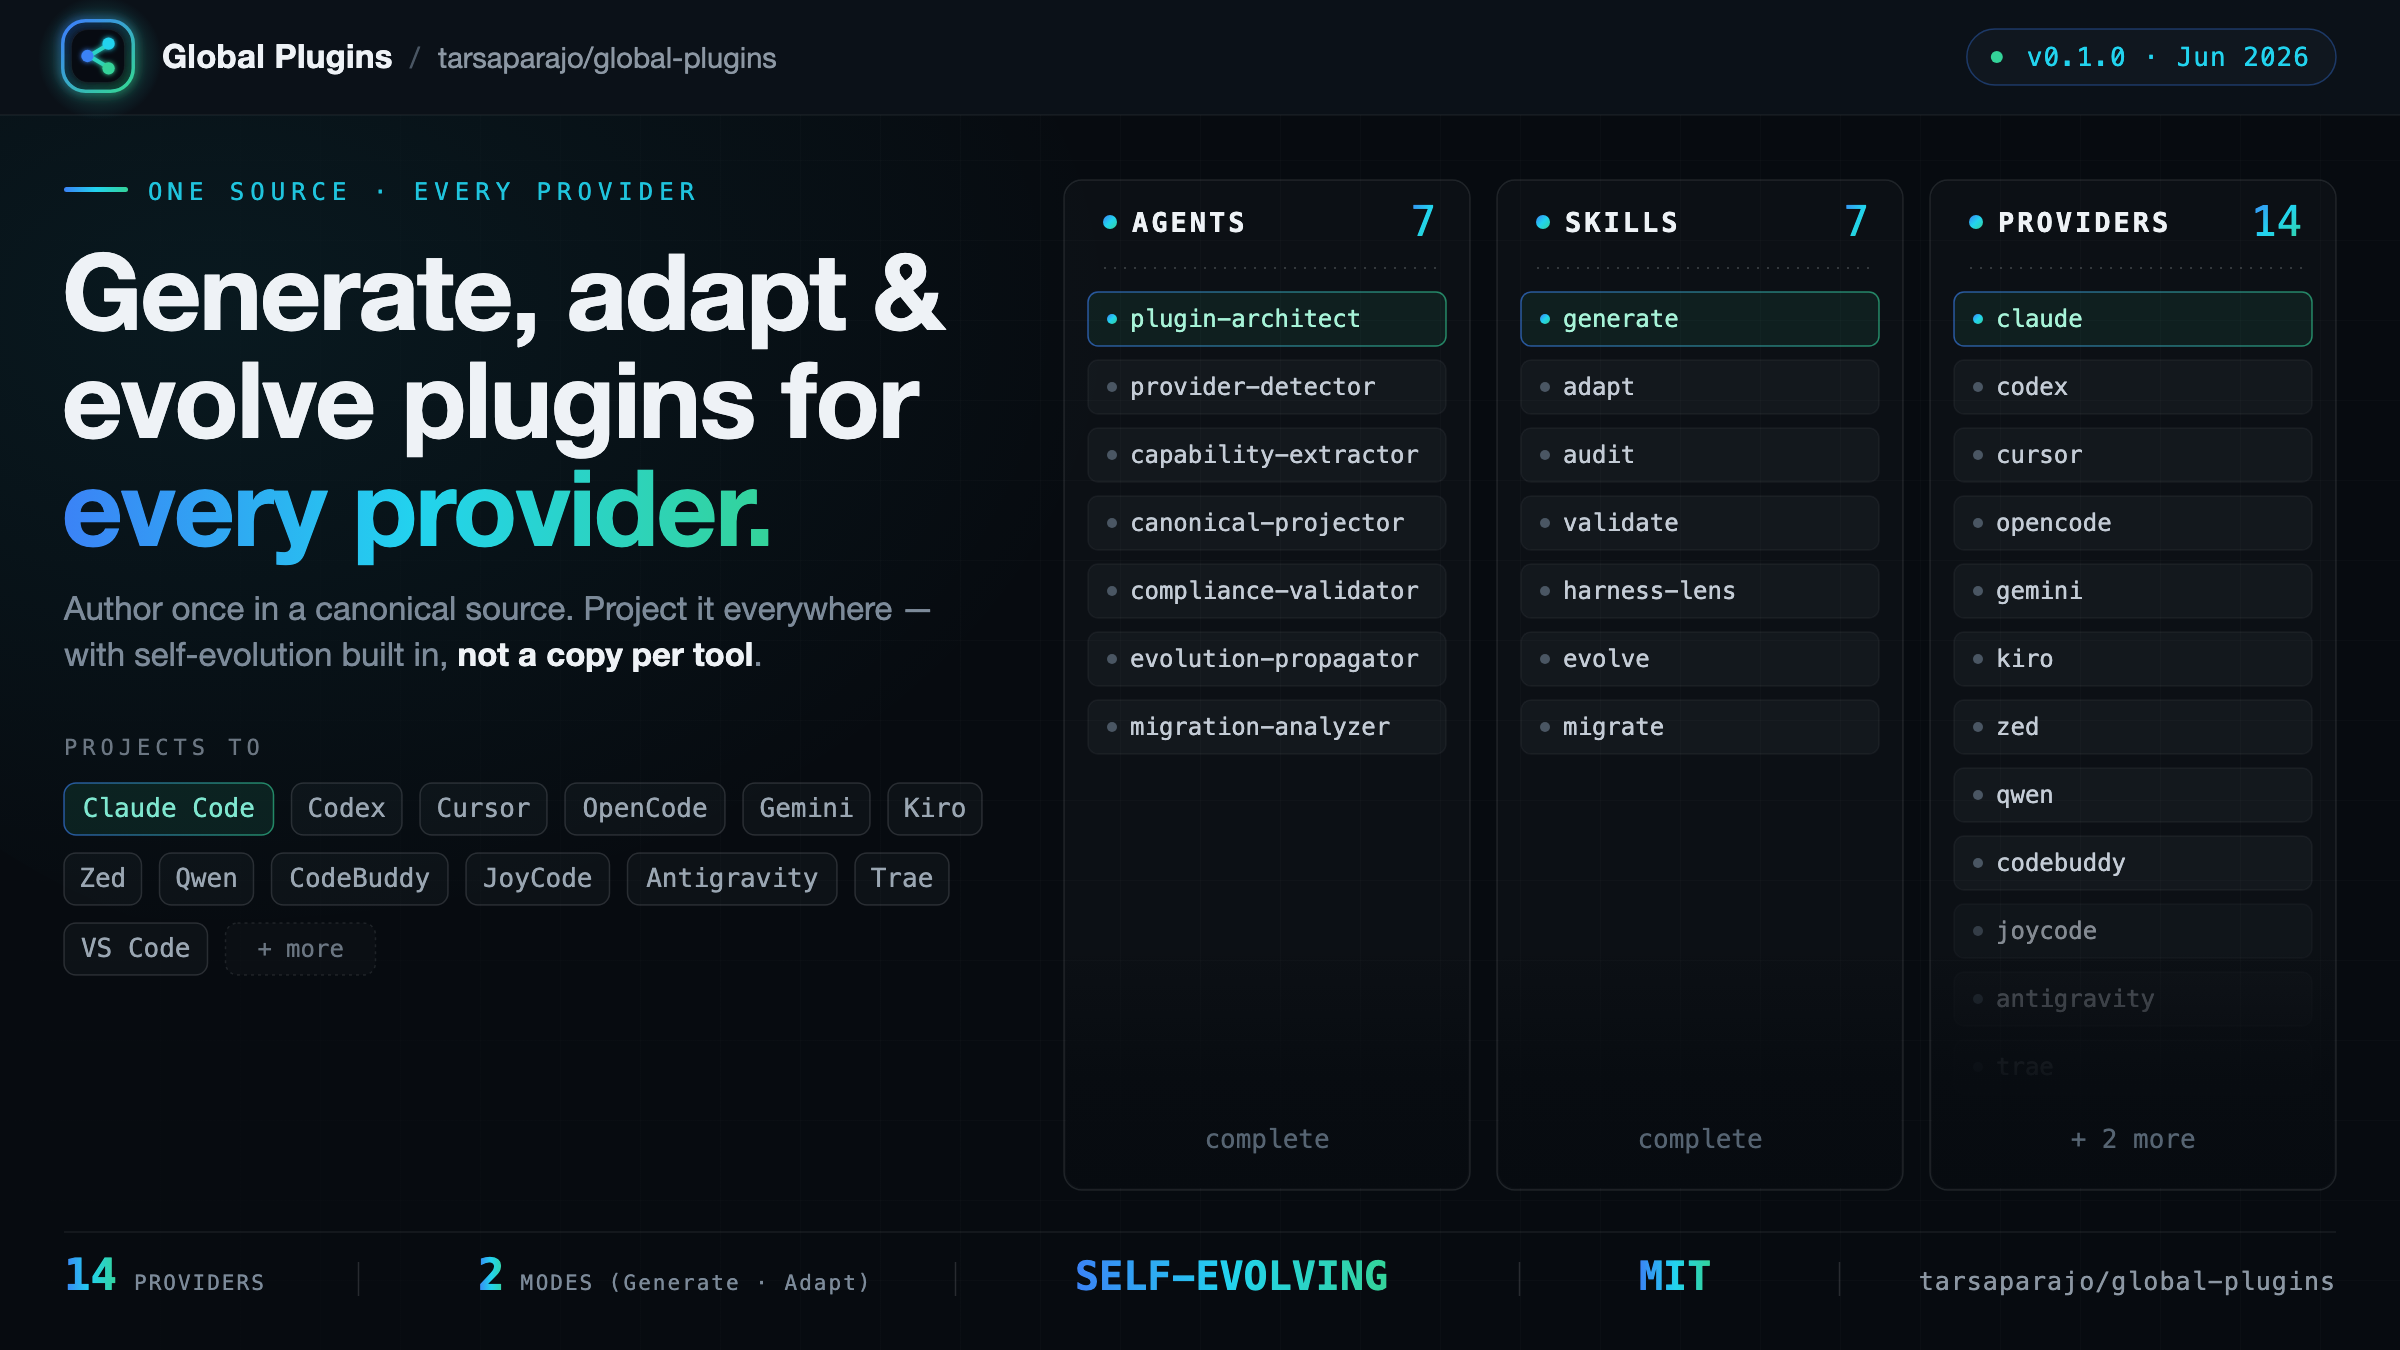
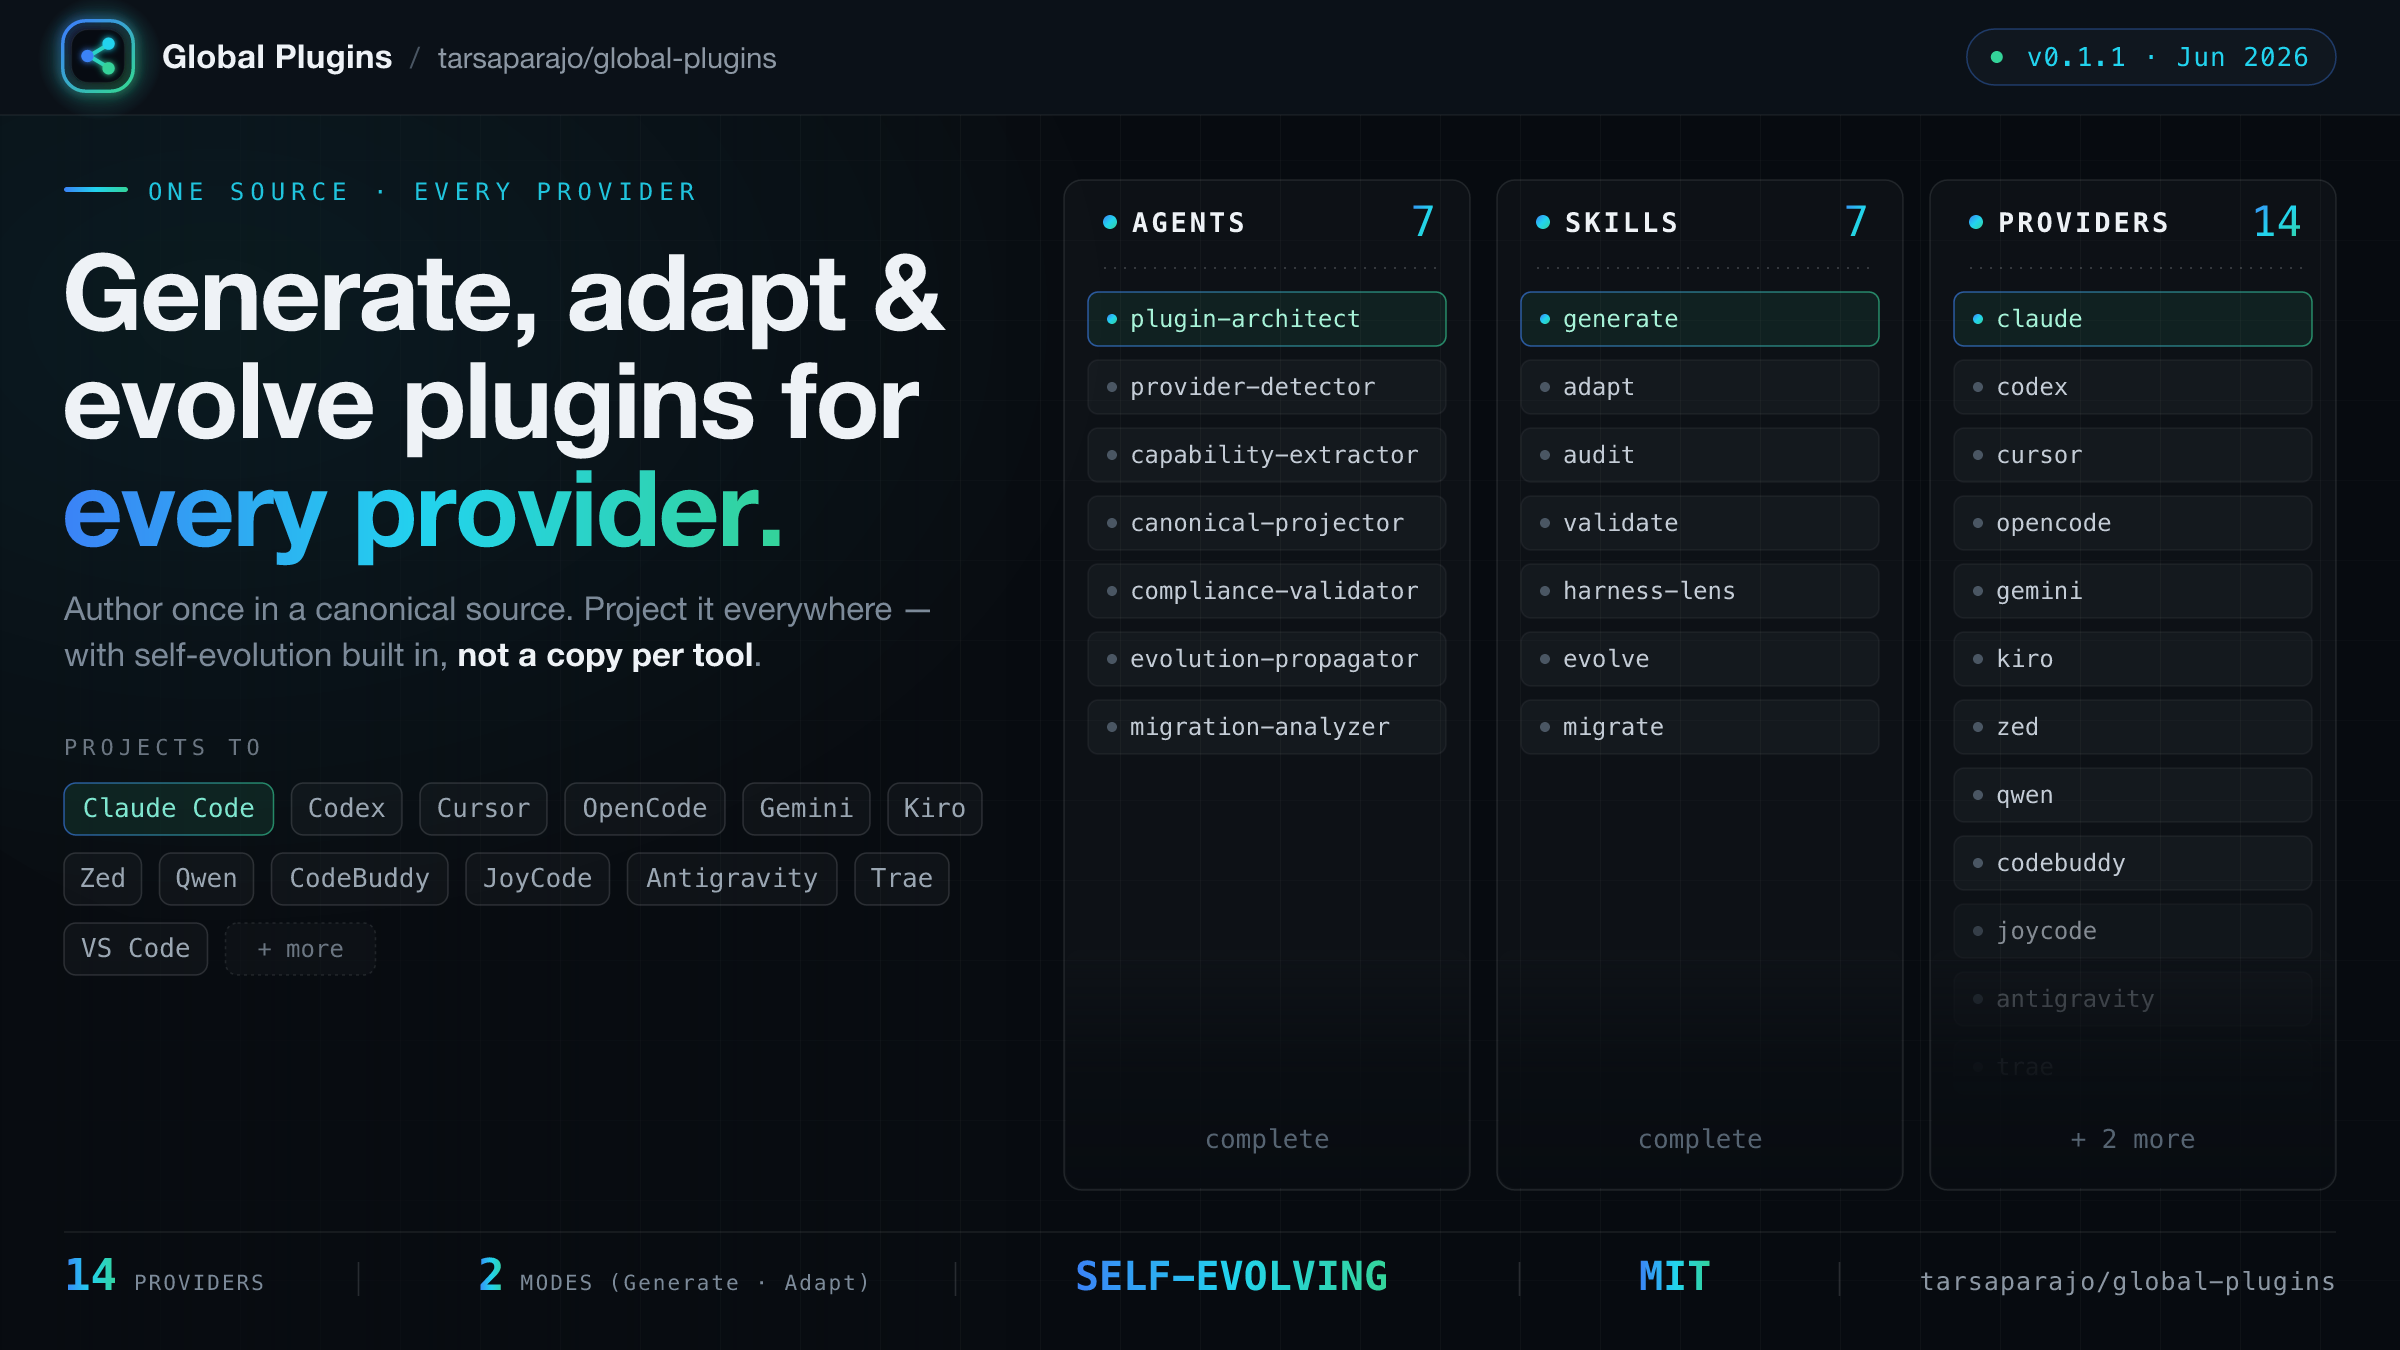
chore: release 0.1.1 — docs refresh across README and locales
Bump VERSION 0.1.0 -> 0.1.1 (PATCH: docs only) and sync plugin.json,
marketplace.json, and package.json. Add the 0.1.1 CHANGELOG entry, update
the README version badge, and regenerate the hero (v0.1.1) — build-hero.js,
hero.svg, and hero.png all in sync.

diff --git a/assets/build-hero.js b/assets/build-hero.js
@@ -170,7 +170,7 @@ svg += `<text x="438" y="68" font-family="${SANS}" font-size="29" fill="#8c97a3"
 // Version pill — right edge anchored at the content edge (2336), sized to fit
 // the text with comfortable padding on both sides.
 (function versionPill() {
-  const label = 'v0.1.0 · Jun 2026';
+  const label = 'v0.1.1 · Jun 2026';
   const fontSize = 26;
   const letterSpacing = 1;
   // mono glyph advance ~0.6em; add letter-spacing per gap.

diff --git a/CHANGELOG.md b/CHANGELOG.md
@@ -5,6 +5,15 @@ Format: Keep a Changelog. Versioning: Semantic Versioning.
 
 ## [Unreleased]
 
+## [0.1.1] - 2026-06-20
+
+### Changed
+
+- Install section rewritten with per-provider, one-by-one steps: Claude Code first (`/plugin` marketplace + install), then each other provider with its real copy command and auto-detection note.
+- Usage table now surfaces the self-hosted `/global-plugins:evolve` and `/global-plugins:migrate` commands.
+- Added the `/plugin marketplace add` + `/plugin install` snippet for Claude Code.
+- All Install, Usage, and badge updates propagated across the English README and all thirteen locales.
+
 ## [0.1.0] - 2026-06-20
 
 ### Added

diff --git a/README.md b/README.md
@@ -7,7 +7,7 @@
 One canonical source, every provider. Generate, adapt, and evolve AI coding plugins from a single description.
 
 [![License: MIT](https://img.shields.io/badge/license-MIT-blue.svg)](LICENSE)
-[![Version](https://img.shields.io/badge/version-0.1.0-green.svg)](VERSION)
+[![Version](https://img.shields.io/badge/version-0.1.1-green.svg)](VERSION)
 [![Buy Me A Coffee](https://img.shields.io/badge/support-buymeacoffee-yellow.svg)](https://buymeacoffee.com/tarsaparajo)
 
 **Language / 语言 / 語言 / Dil / Язык / Ngôn ngữ / Idioma / Idioma / Langue / Lingua**